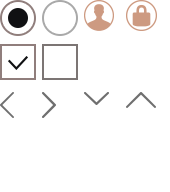
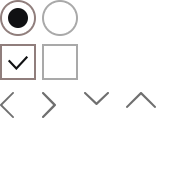
체크박스 수정, 메인 싱크 수정, 프리셋 ch 수정

Changed region(s): [[0.7353, 0.0, 0.9412, 0.1875], [0.4706, 0.0, 0.6765, 0.1875], [0.2353, 0.2188, 0.4706, 0.4375]]

diff --git a/static/css/common.css b/static/css/common.css
@@ -87,6 +87,7 @@ body.main{
     background: #141414;
 }
 
+
 /* //mark: sub */
 body.sub{
     background: #fafbfd;
@@ -232,8 +233,10 @@ body.sub .depth2{
     text-transform: uppercase;
 }
 .set_menulist li .ch_badge > span{
+    width: 12px;
     font-size: 13px;
     font-weight: 500;
+    text-align: center;
     color: #fff;
 }
 .set_menulist li .tit_grp{
@@ -298,7 +301,15 @@ body.bg_type01{
     margin-right: 8px;
     background: url('../img/icn_ir.png') -21px -66px;
     background-size: 85px;
+    -webkit-animation: syncSpin 800ms 2 linear;
+    animation: syncSpin 800ms 2 linear;
 }
+
+@keyframes syncSpin {
+    from { transform: rotate(0deg); }
+    to { transform: rotate(359deg); }
+}
+
 .info_box_wrap{
     padding: 30px 16px 0;
 }
